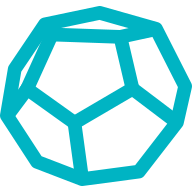
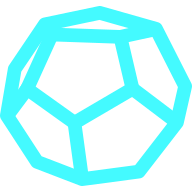
feat: new theme

diff --git a/scripts/theme-defaults.ts b/scripts/theme-defaults.ts
@@ -1,16 +1,16 @@
 /**
- * Pre-computed theme colors for the default preset (Cyan: #00b4c3, h=198, c=0.24, l=0.65).
+ * Pre-computed theme colors for the default preset (Cyan: #44faff, h=198, c=0.14, l=0.9).
  * Used by static assets that can't call the runtime theme engine.
  *
  * THEME_BG: oklchToHex(BG_L*0.5 + SURFACE_L*0.5, c*0.14, h)
  * - Used in index.html: <meta name="theme-color">
  *
- * THEME_ACCENT: oklchToHex(0.65, c, h)
+ * THEME_ACCENT: oklchToHex(0.9, c, h)
  * - Used in public/icon.svg: g { stroke } (dark mode)
  *
- * THEME_ACCENT_LIGHT: oklchToHex(0.4, c, h)
+ * THEME_ACCENT_LIGHT: oklchToHex(0.45, c, h)
  * - Used in public/icon.svg: @media (light) g { stroke }
  */
-export const THEME_BG = "#00191a";
-export const THEME_ACCENT = "#00b4c3";
-export const THEME_ACCENT_LIGHT = "#006775";
+export const THEME_BG = "#0a1818";
+export const THEME_ACCENT = "#44faff";
+export const THEME_ACCENT_LIGHT = "#006a71";

diff --git a/index.html b/index.html
@@ -9,7 +9,7 @@
     <meta name="viewport" content="width=device-width, initial-scale=1.0, viewport-fit=cover" />
     <meta name="color-scheme" content="light dark" />
     <!-- oklchToHex(BG_L*0.5+SURFACE_L*0.5, c*0.14, h) for default preset; see themeApply.ts syncThemeColorMeta -->
-    <meta name="theme-color" content="#00191a" />
+    <meta name="theme-color" content="#0a1818" />
     <meta name="mobile-web-app-capable" content="yes" />
     <meta name="apple-mobile-web-app-capable" content="yes" />
     <meta name="apple-mobile-web-app-status-bar-style" content="black-translucent" />

diff --git a/src/lib/themeColorStore.ts b/src/lib/themeColorStore.ts
@@ -7,8 +7,8 @@ export interface ThemeColor {
     l?: number;
 }
 
-/** Default source color: matches the first preset (Cyan: #00b4c3) */
-export const DEFAULT_THEME_COLOR: ThemeColor = { h: 198, c: 0.24, l: 0.65 };
+/** Default source color: matches the first preset (Cyan: #44faff) */
+export const DEFAULT_THEME_COLOR: ThemeColor = { h: 198, c: 0.14, l: 0.9 };
 
 function getThemeColor(): ThemeColor {
     const stored = getItem("theme-color");
